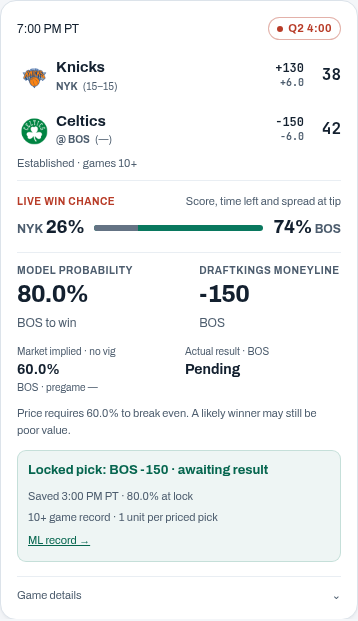
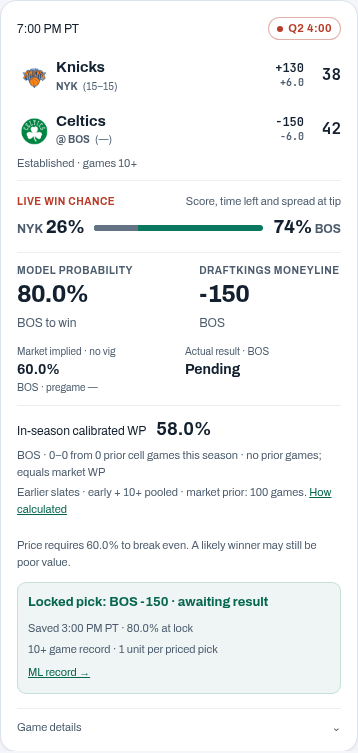
Add pooled in-season calibrated WP to each game card (#166)

diff --git a/public_site.py b/public_site.py
@@ -16,6 +16,7 @@ import dfs
 import ledger
 import live_wp
 import market
+import wp_calibration
 from matchup_context import MatchupContext
 
 PAGES = (("index.html", "Today"), ("results.html", "Results"),
@@ -124,7 +125,7 @@ CSS = """
 .forecast-readout.ml-focus{grid-template-columns:1.2fr 1fr}.stage-label{font-size:11px;color:var(--muted)}
 [data-source-summary][hidden],[data-ml-panel][hidden],.gcard[hidden]{display:none!important}
 .game-filters{display:flex;flex-wrap:wrap;gap:8px 16px;margin:16px 0 12px}.filter-group>span{display:block;font-size:11px;color:var(--muted);margin-bottom:4px}.filter-group .seg{display:flex;margin:0}
-.forecast-outcome{display:grid;grid-template-columns:1fr 1fr;gap:12px;font-size:12px;margin:0 0 10px}.forecast-outcome small{display:block;color:var(--muted);font-size:10px}.forecast-outcome strong{display:block;font-size:14px}.break-even{font-size:11px;color:var(--muted);margin:0 0 12px}.lock-summary{margin-top:4px}.lock-summary strong{display:block;font-size:13px;text-transform:none;letter-spacing:0}.lock-summary small{display:block;font-size:11px;color:var(--muted);margin-top:5px}.lock-summary a{display:inline-block;margin-top:6px;font-size:11px}
+.season-calibration{padding:10px 0;margin-bottom:10px;border-top:1px solid var(--line-2);font-size:12px}.season-calibration strong{font-size:18px;margin-left:8px}.season-calibration small{display:block;font-size:11px;color:var(--muted);margin-top:4px}.forecast-outcome{display:grid;grid-template-columns:1fr 1fr;gap:12px;font-size:12px;margin:0 0 10px}.forecast-outcome small{display:block;color:var(--muted);font-size:10px}.forecast-outcome strong{display:block;font-size:14px}.break-even{font-size:11px;color:var(--muted);margin:0 0 12px}.lock-summary{margin-top:4px}.lock-summary strong{display:block;font-size:13px;text-transform:none;letter-spacing:0}.lock-summary small{display:block;font-size:11px;color:var(--muted);margin-top:5px}.lock-summary a{display:inline-block;margin-top:6px;font-size:11px}
 .source-summary{display:grid;grid-template-columns:repeat(2,minmax(0,1fr));gap:12px;margin:16px 0}.source-summary article{padding:16px;background:var(--surface);border:1px solid var(--line);border-radius:12px}.source-summary h3{margin:0 0 6px;font-size:15px}.source-summary p{font-size:12px;color:var(--muted);margin:6px 0}.source-summary strong{color:var(--ink)}
 .public-empty button{margin-top:14px;min-height:44px;padding:8px 14px;border:1px solid var(--line);border-radius:8px;background:var(--surface-2);color:var(--ink);font:inherit;cursor:pointer}
 @media(max-width:640px){.today-head.public-head{margin:12px 0}.today-head .eyebrow{display:none}.today-head h1{font-size:26px}.today-head.public-head p{font-size:12px;margin-top:4px}.today-head .update{margin-top:8px}.today-note.public-note{display:none}.today-intro.public-intro{margin:12px 0}.game-filters{margin:12px 0;gap:8px}.filter-group{width:100%}.filter-group .seg{width:100%}.filter-group .seg button{flex:1;padding:8px 6px}.source-summary{grid-template-columns:1fr}.forecast-readout{padding:10px 0}.tool-card .g-meta{margin-bottom:8px}.lock-summary{padding:10px}}
@@ -190,6 +191,7 @@ class PublicSite:
         # reader's browser computes it from ESPN's live score (display only)
         self.live_fit = live_wp.load()
         self.predictions = analysis.moneyline_model_predictions(self.native, replay)
+        self.calibration = wp_calibration.SeasonCalibration(self.native)
         # the O/U rows of the live totals model: ou3's once Fit model has
         # written it (or a native lock carries it), else ou2's
         self.ou = "ou3" if analysis.ou3_active(self.native) else "ou2"
@@ -297,10 +299,11 @@ class PublicSite:
             forecast += (f"<div class='forecast-outcome'><div><small>Market implied · no vig</small><strong>{u.pct(q_pick)}</strong>"
                          f"<small>{u.esc(team)} · pregame {u.tip_pt(row.get('snapshot_utc'))}</small></div>"
                          f"<div><small>Actual result · {u.esc(team)}</small><strong data-forecast-result data-pick-side='{'home' if p >= .5 else 'away'}'>{actual}</strong></div></div>")
+            forecast += self.calibrated_readout(row, team)
             forecast += (f"<p class='break-even'>Price requires {u.pct(breakeven)} to break even. A likely winner may still be poor value.</p>"
                          if np.isfinite(breakeven) else "<p class='break-even'>Break-even probability unavailable: no valid DraftKings price.</p>")
         else:
-            forecast = "<div class='forecast-only'><b>Forecast unavailable</b><br>A required model input was unavailable.</div>"
+            forecast = "<div class='forecast-only'><b>Forecast unavailable</b><br>A required model input was unavailable.</div>" + self.calibrated_readout(row, None)
         tracking = ""
         saved = self.predictions[self.predictions.game_id.astype(str).eq(str(row.game_id))] if len(self.predictions) else self.predictions
         if not len(saved):
@@ -348,6 +351,21 @@ class PublicSite:
                 + "".join(teams) + f"<div class='stage-label'>{stage_text}</div>" + live + forecast + tracking
                 + "<span class='details-cue'>Game details<i aria-hidden='true'>⌄</i></span></summary>"
                 + f"<div class='g-detail'>{detail}</div></details>")
+
+    def calibrated_readout(self, row, team):
+        u = self.ui
+        estimate = self.calibration.estimate(row)
+        if estimate is None:
+            return ("<div class='season-calibration' data-season-calibration>In-season calibrated WP <strong>—</strong>"
+                    "<small>Requires a v11 forecast, team experience and valid DraftKings prices.</small></div>")
+        n, wins, losses = estimate['games'], estimate['wins'], estimate['losses']
+        support = f"{wins}–{losses} from {n} prior cell game{'s' if n != 1 else ''} this season"
+        pool = 'early + 10+ pooled' if wp_calibration.stage(row) in ('early', 'established') else 'opening games only'
+        fallback = " · no prior games; equals market WP" if not n else ''
+        return (f"<div class='season-calibration' data-season-calibration data-cell-games='{n}' data-cell-wins='{wins}'>"
+                f"In-season calibrated WP <strong>{u.pct(estimate['probability'])}</strong>"
+                f"<small>{u.esc(team)} · {support}{fallback}</small>"
+                f"<small>Earlier slates · {pool} · market prior: 100 games. <a href='how-it-works.html#in-season-calibration'>How calculated</a></small></div>")
 
     def live_block(self, row, dk):
         """The live win chance (owner request, 2026-11-07; live_wp.py): the
@@ -775,6 +793,12 @@ class PublicSite:
 <p><b>Model probability</b> is the chance of the model’s predicted winner winning; <b>DraftKings moneyline</b> is that team’s current market price. The <b>break-even probability</b> is the win rate needed to cover that price, including the bookmaker’s margin. A predicted winner is not necessarily good value. Model and market probabilities refer to the same team and can update until tip. Actual result is that team’s Win or Loss; realized win rates across games appear in ML performance. A saved <b>locked pick</b> is shown separately at its original price. Times are Pacific.</p>
 <p><b>Live win chance</b> updates from the current score, time left and spread at tip every 30 seconds while games are in progress. It is display context, is not saved and never changes a pick or record.</p>
 <p>Game details retain the predicted margin, both teams’ season records, four factors from games before the slate, and timestamped ESPN injuries. The model uses the NBA’s official injury report separately.</p></section>
+<section id='in-season-calibration'><h2>In-season calibrated WP</h2>
+<p>This is an experimental estimate for the <b>same team as the current model forecast</b>. It uses realized results where the model and market probabilities fell in the same joint cell this season. It can update with the pregame forecast and price until tip; it is separate from live win chance and the saved locked pick.</p>
+<p><b>Calibrated WP = (prior cell wins + 100 × current market WP) ÷ (prior cell games + 100).</b> Market WP is the DraftKings moneyline probability with the bookmaker’s margin removed. With no prior games, the estimate equals market WP.</p>
+<p>Prior cell games are graded native v11 five-hour locks from <b>strictly earlier slates in the same season</b>. Historical replays, prior seasons, pending games and void locks do not enter. Early games and games 10+ share calibration evidence; opening games remain separate. The tracked early and 10+ records remain separate. Each prior game uses its model’s selected team, saved model probability, saved DraftKings probability and actual Win/Loss.</p>
+<p>Model bands: 50–60%, 60–70%, 70–80%, 80–100%. Market bands for that same team: below 50%, 50–60%, 60–70%, 70–80%, 80–100%. Boundaries enter the higher band; 100% enters the final band. The card shows the prior cell’s W/L and count; 100 is a fixed smoothing weight, not 100 additional observed games.</p>
+<p>This display estimate does not change the model, tracked picks or record. Sparse cells remain close to the market probability; an improvement or betting advantage has not been established.</p></section>
 <section><h2>The model</h2>
 <p>The same v11 model predicts a points margin and converts it to a win probability. Inputs include recent shooting, turnovers, rebounding and free-throw rates for and against; home court, back-to-backs and season phase; roster value and the NBA injury report. Last season’s team rating fades out over the first 10 games. Market prices are benchmarks, never model inputs.</p>""" + self.model_note() + """</section>
 """

diff --git a/tests/test_wp_calibration.py b/tests/test_wp_calibration.py
@@ -1,0 +1,92 @@
+"""Causal, same-season/stage joint calibration; no production mutation."""
+import numpy as np
+import pandas as pd
+import pytest
+
+import build_site as ui
+from public_site import PublicSite
+from test_public_site import rows
+from wp_calibration import SeasonCalibration, band, MODEL_BOUNDS, MARKET_BOUNDS
+
+
+def record(gid, date='2026-11-10', won=1, **changes):
+    r = rows().iloc[3].copy()
+    tip = pd.Timestamp(date, tz='UTC') + pd.Timedelta(days=1, hours=3)
+    values = dict(game_id=gid, slate_date=date, season=2027, gp_home=30, gp_away=30,
+                  tip_utc=tip.isoformat(), lock_snapshot_utc=(tip-pd.Timedelta(hours=4)).isoformat(),
+                  snapshot_utc=(tip-pd.Timedelta(hours=3)).isoformat(),
+                  model_tag=ui.MODEL_TAG_V11, lock_model_tag=ui.MODEL_TAG_V11,
+                  p_home=.65, lock_p_home=.65, home_won=won,
+                  pre_home_ml=-300, pre_away_ml=300, pre_q_home=.75,
+                  lock_home_ml=-300, lock_away_ml=300, lock_book='dk', pre_book='dk')
+    for key,value in values.items():r[key]=value
+    for key,value in changes.items():r[key]=value
+    return r
+
+
+def test_formula_excludes_other_cells_sources_stages_dates_seasons_and_invalid_locks():
+    target=record('target',date='2026-11-11',won=1)
+    g=pd.DataFrame([record('win'),record('loss',won=0),
+        record('pending',won=np.nan),record('same',date='2026-11-11'),record('future',date='2026-11-12'),
+        record('old',season=2026),record('replay',basis='reconstructed'),record('opener',gp_home=0),
+        record('other-model-cell',lock_p_home=.85),record('other-market-cell',lock_home_ml=-150,lock_away_ml=150),
+        record('legacy',lock_model_tag=ui.MODEL_TAG_V10),record('no-price',lock_away_ml=np.nan),
+        record('other-book',lock_book='espnbet'),record('late-lock',lock_snapshot_utc='2026-11-11T04:00:00Z'),
+        record('401909897')])  # existing stale-data void
+    before=g.copy(deep=True)
+    est=SeasonCalibration(g).estimate(target)
+    assert est['games']==2 and est['wins']==1 and est['losses']==1
+    assert est['probability']==pytest.approx((1+100*.75)/102)
+    pd.testing.assert_frame_equal(before,g)
+    # The target's own outcome and mutable current probabilities of prior rows
+    # never substitute for prior saved lock probabilities.
+    changed=g.assign(p_home=.99,pre_home_ml=-999,pre_away_ml=999)
+    assert SeasonCalibration(changed).estimate(target)['probability']==est['probability']
+
+
+def test_reversing_teams_preserves_selected_team_estimate():
+    g=pd.DataFrame([record('win'),record('loss',won=0)])
+    target=record('target',date='2026-11-11')
+    a=SeasonCalibration(g).estimate(target)
+    for key in ['p_home','lock_p_home','home_won']:g[key]=1-g[key]
+    for prefix in ['pre','lock']:
+        g[f'{prefix}_home_ml'],g[f'{prefix}_away_ml']=g[f'{prefix}_away_ml'].copy(),g[f'{prefix}_home_ml'].copy()
+        target[f'{prefix}_home_ml'],target[f'{prefix}_away_ml']=target[f'{prefix}_away_ml'],target[f'{prefix}_home_ml']
+    target['p_home']=1-target.p_home
+    assert SeasonCalibration(g).estimate(target)==a
+
+
+def test_empty_cell_falls_back_to_market_and_invalid_inputs_are_unavailable():
+    empty=SeasonCalibration(pd.DataFrame([record('opener',gp_home=0)]))
+    target=record('target',date='2026-11-11')
+    est=empty.estimate(target)
+    assert est['games']==0 and est['probability']==.75
+    opener=target.copy();opener['gp_home']=0
+    assert empty.estimate(opener)['games']==1
+    for changes in [dict(p_home=np.nan),dict(pre_away_ml=np.nan),dict(pre_book='espnbet'),
+                    dict(gp_away=np.nan),dict(model_tag=ui.MODEL_TAG_V10)]:
+        bad=target.copy()
+        for key,val in changes.items():bad[key]=val
+        assert empty.estimate(bad) is None
+
+
+def test_boundary_membership_and_public_card_explain_support_and_formula():
+    assert band(.6,MODEL_BOUNDS)==1 and band(.8,MODEL_BOUNDS)==3
+    assert band(1,MODEL_BOUNDS)==3 and band(.5,MARKET_BOUNDS)==1
+    assert band(.499999,MARKET_BOUNDS)==0
+    target=record('target',date='2026-11-11',won=np.nan)
+    site=PublicSite(ui,pd.DataFrame([record('prior'),target]),'2026-11-11','built')
+    card=site.card(target)
+    assert 'In-season calibrated WP' in card and '75.2%' in card and '1–0 from 1 prior cell game this season' in card
+    assert 'prior cell wins + 100 × current market WP' in site.guide_page()
+    assert "data-cell-games='1'" in card
+    assert 'no prior games; equals market WP' in site.card(record('empty',date='2026-11-09'))
+
+
+def test_early_and_ten_plus_pool_only_calibration_evidence():
+    g=pd.DataFrame([record('early',gp_home=9),record('established',won=0)])
+    target=record('target',date='2026-11-11')
+    a=SeasonCalibration(g).estimate(target)
+    target['gp_home']=5
+    assert SeasonCalibration(g).estimate(target)==a
+    assert a['games']==2 and a['wins']==1

diff --git a/wp_calibration.py b/wp_calibration.py
@@ -1,0 +1,82 @@
+"""Display-only, in-season joint calibration of v11 ML forecasts.
+
+The prior is 100 copies of the current no-vig market probability. Evidence
+comes only from valid, graded native five-hour locks in the same season,
+model-winner × market-WP cell, on earlier slates. Early and 10+ games
+share evidence; opening games remain separate.
+No model, market price, saved pick or result is written or changed here.
+"""
+from __future__ import annotations
+
+import numpy as np
+import pandas as pd
+
+import analysis
+import market
+
+PRIOR_GAMES = 100
+MODEL_BOUNDS = (.5, .6, .7, .8, 1.0)
+MARKET_BOUNDS = (0., .5, .6, .7, .8, 1.0)
+
+
+def band(value, bounds):
+    """Lower-inclusive cells; the final cell includes probability 1."""
+    return min(int(np.searchsorted(bounds, value, side='right') - 1), len(bounds) - 2)
+
+
+def stage(row):
+    gp = np.minimum(pd.to_numeric(row.get('gp_home'), errors='coerce'),
+             pd.to_numeric(row.get('gp_away'), errors='coerce'))
+    if not np.isfinite(gp):
+        return None
+    return 'established' if gp >= 10 else 'early' if gp >= 1 else 'opener' if gp == 0 else None
+
+
+class SeasonCalibration:
+    def __init__(self, native):
+        # Reuse the registered exclusions, family, timing and stage boundaries.
+        live = analysis.model_predictions(native)
+        self.rows = []
+        for _, row in live.iterrows():
+            y = pd.to_numeric(row.get('home_won'), errors='coerce')
+            if y not in (0, 1) or row.get('lock_book') != 'dk':
+                continue
+            q = market.devig(row.get('lock_home_ml'), row.get('lock_away_ml'))
+            if not np.isfinite(q):
+                continue
+            p_home = pd.to_numeric(row.lock_p_home, errors='coerce')
+            home = p_home >= .5
+            p_pick = p_home if home else 1 - p_home
+            q_pick = q if home else 1 - q
+            self.rows.append(dict(game_id=str(row.game_id), season=row.season,
+                date=str(row.slate_date), stage=row.prediction_stage,
+                model_band=band(p_pick, MODEL_BOUNDS), market_band=band(q_pick, MARKET_BOUNDS),
+                won=int(y if home else 1-y)))
+
+    def estimate(self, row):
+        """Estimate the CURRENT model winner using current pregame DK prices.
+
+        Date selection reconstructs the pre-slate view even for final cards:
+        the target game's own outcome and every same/later slate are excluded.
+        """
+        p = pd.to_numeric(row.get('p_home'), errors='coerce')
+        experience = stage(row)
+        if (not np.isfinite(p) or not 0 <= p <= 1 or experience is None
+                or not str(row.get('model_tag', '')).endswith(analysis.FAMILY_TAGS)
+                or row.get('pre_book') != 'dk'):
+            return None
+        q_home = market.devig(row.get('pre_home_ml'), row.get('pre_away_ml'))
+        if not np.isfinite(q_home):
+            return None
+        home = p >= .5
+        p_pick, q_pick = (p, q_home) if home else (1-p, 1-q_home)
+        pb, qb = band(p_pick, MODEL_BOUNDS), band(q_pick, MARKET_BOUNDS)
+        prior = [r for r in self.rows if r['season'] == row.get('season')
+                 and (r['stage'] in ('early', 'established') if experience in ('early', 'established') else r['stage'] == experience)
+                 and r['date'] < str(row.get('slate_date'))
+                 and r['game_id'] != str(row.get('game_id'))
+                 and r['model_band'] == pb and r['market_band'] == qb]
+        wins, n = sum(r['won'] for r in prior), len(prior)
+        return dict(probability=(wins + PRIOR_GAMES*q_pick)/(n + PRIOR_GAMES),
+                    market_probability=q_pick, games=n, wins=wins, losses=n-wins,
+                    model_range=MODEL_BOUNDS[pb:pb+2], market_range=MARKET_BOUNDS[qb:qb+2])

diff --git a/research/check_public_ui.py b/research/check_public_ui.py
@@ -39,7 +39,7 @@ def fixture():
         row = dict.fromkeys(ledger.COLUMNS, np.nan)
         row.update(game_id=f'fixture-{i}', basis='native', season=2027,
             slate_date='2026-11-19', tip_utc='2026-11-20T03:00:00Z',
-            home='BOS', away='NYK', model_tag=ui.MODEL_TAG_V9,
+            home='BOS', away='NYK', model_tag=ui.MODEL_TAG_V11,
             first_model_tag=ui.MODEL_TAG_V9, gp_home=gp, gp_away=30,
             p_home=.8, p_lean=.8, lean='BOS', margin_home=11.2,
             first_p_home=.8, first_snapshot_utc='2026-11-19T15:07:00Z',
@@ -183,6 +183,8 @@ def main():
                         checks.append(f'{device}: {label} · navigation, overflow and screenshot passed')
                     page.goto(f'{base}/fixture/index.html')
                     assert page.locator('.gcard:visible').count()==1
+                    assert page.locator('.gcard:visible [data-season-calibration]').count()==1
+                    assert 'equals market WP' in page.locator('.gcard:visible [data-season-calibration]').inner_text()
                     page.locator('[data-group="stage"][data-show="all"]').click()
                     assert page.locator('.gcard:visible').count()==5
                     # Stage and status compose; counts reflect the other group.

diff --git a/CLAUDE.md b/CLAUDE.md
@@ -5,6 +5,20 @@ state uncertainty, and turn findings into concrete tests.
 
 ## Live model and forward tests
 
+### In-season calibrated WP — owner approval, November 12, 2026
+
+The owner requested the exact joint-cell estimate on each game card:
+(wins + 100 × current no-vig DraftKings WP) / (games + 100).
+Use only graded native v11 five-hour locks on strictly earlier slates in the
+same season, pooling early and 10+ calibration evidence (owner follow-up),
+with the model's selected team defining
+both probabilities and the observed result. Cells use model 50/60/70/80/100%
+and market 0/50/60/70/80/100% boundaries, lower inclusive (100% in the last).
+Opening games remain separate. No replay or prior-season seeding. Display count and W/L, explain empty cells
+and smoothing, and label the estimate experimental in the guide. This is a
+separate pregame display: it does not change the model, saved picks, grades,
+record membership, or pricing. Preserve historical and frozen data.
+
 ### Public clarity amendment — owner approval, November 12, 2026
 
 The owner approved all six site-review suggestions and merge after validation.
